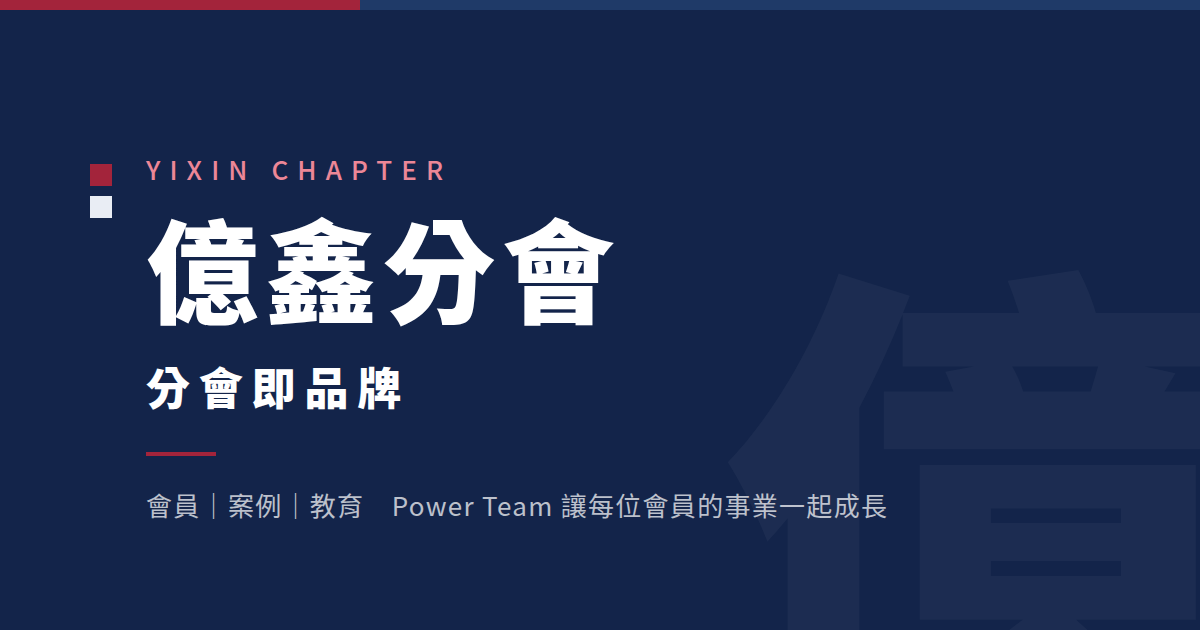
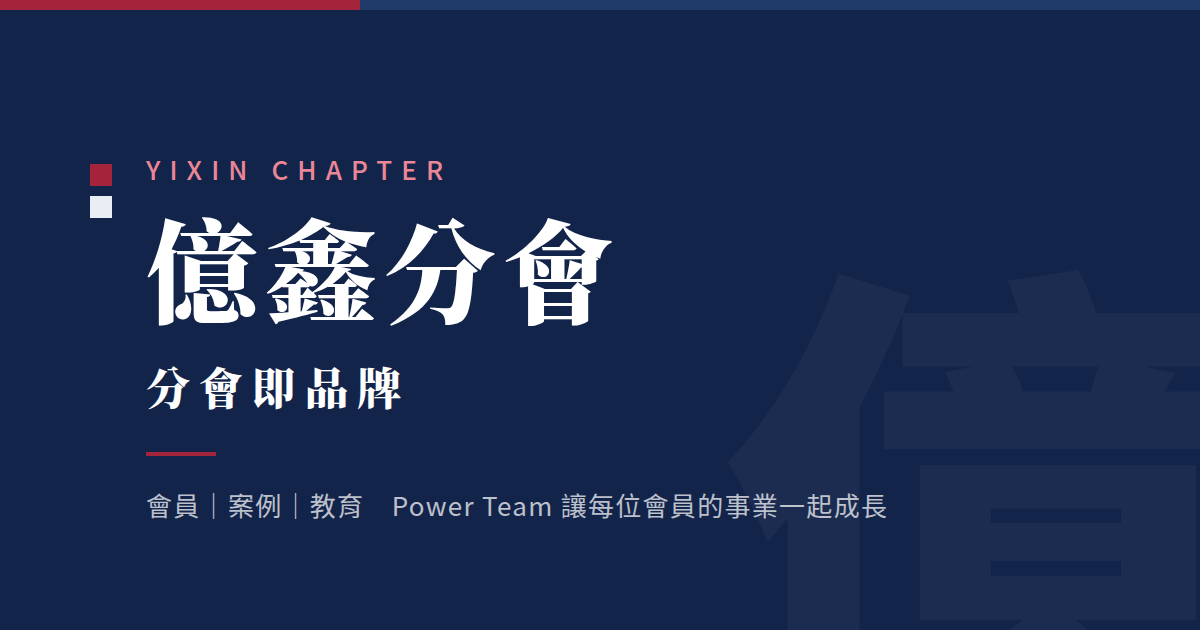
標題 H1 至 H4 改用 Noto Serif TC，內文維持 Noto Sans TC
Claude-Session: https://claude.ai/code/session_01DT1mrLwdbW8HwtMDT4mVEB

Changed region(s): [[0.1233, 0.3317, 0.5242, 0.5127], [0.1233, 0.573, 0.3392, 0.6635]]

diff --git a/src/app/brand/page.tsx b/src/app/brand/page.tsx
@@ -86,7 +86,8 @@ export default function BrandPage() {
 
       <Block title="字體">
         <div className="space-y-4">
-          <div className="headline text-4xl">標題 Noto Sans TC 900</div>
+          <div className="headline text-4xl">標題 Noto Serif TC 900</div>
+          <p className="text-sm text-muted">H1 到 H4 與所有大標一律使用襯線體，給分會一點書卷氣與份量；內文用無襯線體，長文好讀。</p>
           <div className="text-lg">內文 Noto Sans TC 400，行高 1.95，讓長文讀起來不累。</div>
           <div className="eyebrow text-accent">Oswald · English Label & Numbers 01 / 04</div>
         </div>

diff --git a/src/app/globals.css b/src/app/globals.css
@@ -32,6 +32,7 @@
   --color-indigo: var(--indigo);
   --color-indigo-soft: var(--indigo-soft);
   --font-sans: "Noto Sans TC", "Noto Sans CJK TC", "PingFang TC", "Microsoft JhengHei", system-ui, sans-serif;
+  --font-serif: "Noto Serif TC", "Noto Serif CJK TC", "PMingLiU", serif;
   --font-display: "Oswald", "Noto Sans TC", sans-serif;
 }
 
@@ -44,6 +45,8 @@ body {
 }
 
 /* 中文標題的張力：極粗字重 + 收緊行高 + 微拉字距 */
+/* 標題 H1 到 H4 一律用 Noto Serif TC，內文維持 Noto Sans TC */
+h1, h2, h3, h4, .headline { font-family: var(--font-serif); }
 .headline {
   font-weight: 900;
   line-height: 1.12;

diff --git a/src/app/layout.tsx b/src/app/layout.tsx
@@ -28,7 +28,7 @@ export default function RootLayout({ children }: Readonly<{ children: React.Reac
         <link rel="preconnect" href="https://fonts.gstatic.com" crossOrigin="" />
         <link
           rel="stylesheet"
-          href="https://fonts.googleapis.com/css2?family=Noto+Sans+TC:wght@400;500;700;900&family=Oswald:wght@500;600&display=swap"
+          href="https://fonts.googleapis.com/css2?family=Noto+Sans+TC:wght@400;500;700&family=Noto+Serif+TC:wght@600;700;900&family=Oswald:wght@500;600&display=swap"
         />
       </head>
       <body className="min-h-screen flex flex-col">
